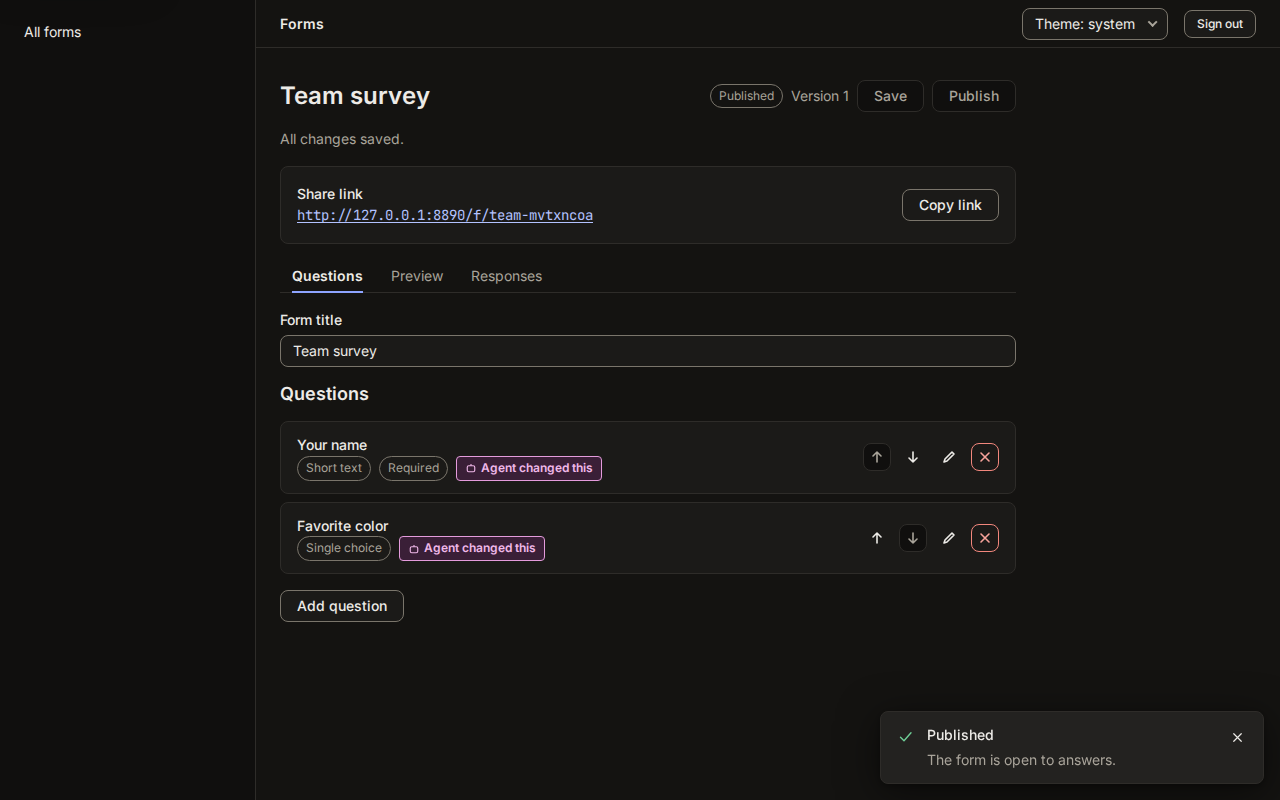
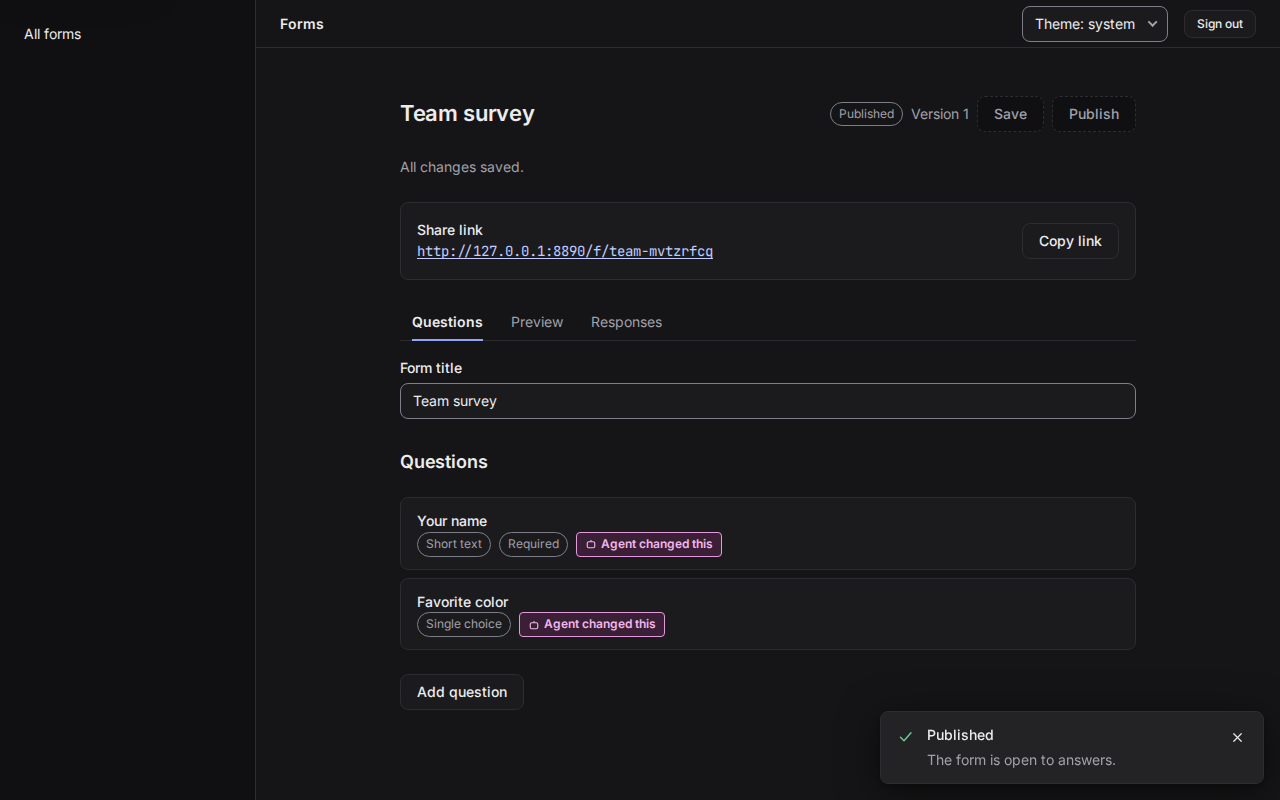
[FORMS-83] Calm look for the builder and form page
Move to agentic-design 0.5. Add a question types menu, inline
rename, hover and focus row tools, and a calmer public form page.
Keep the before screenshots in docs/screenshots/before. Release 0.9.0.

diff --git a/ui/Builder.tsx b/ui/Builder.tsx
@@ -1,13 +1,13 @@
 import { useEffect, useRef, useState } from "react";
-import { Button, IconButton, Input, Tabs, useToast } from "agentic-design/react";
+import { Button, IconButton, Input, Menu, Tabs, useToast } from "agentic-design/react";
 import type { Client } from "../src/client.js";
 import type { Form, Question, Section } from "../src/core/form.js";
 import { Preview } from "./Preview.js";
-import { QuestionDialog, typeLabel } from "./QuestionDialog.js";
+import { QuestionDialog, TYPES, typeLabel } from "./QuestionDialog.js";
 import { Responses } from "./Responses.js";
 import { AgentMark, ErrorBox, Gate, None, canon, isConflict, setUnsaved, useLoad } from "./lib.js";
 
-type Edit = { section: number; index: number | "new" };
+type Edit = { section: number; index: number | "new"; type?: Question["type"] };
 const icon = (d: string) => (
   <svg width="16" height="16" viewBox="0 0 16 16" fill="none" stroke="currentColor" strokeWidth="1.6" strokeLinecap="round" strokeLinejoin="round" aria-hidden="true">
     <path d={d} />
@@ -21,6 +21,7 @@ function Editor({ api, initial, reload, origin }: { api: Client; initial: Form; 
   const [sections, setSections] = useState<Section[]>(initial.sections);
   const [edit, setEdit] = useState<Edit | undefined>();
   const [opener, setOpener] = useState<HTMLElement | null>(null);
+  const [renaming, setRenaming] = useState<{ id: string; text: string } | undefined>();
   const [error, setError] = useState<unknown>();
   const [busy, setBusy] = useState<"save" | "publish" | undefined>();
   const toast = useToast();
@@ -35,6 +36,14 @@ function Editor({ api, initial, reload, origin }: { api: Client; initial: Form; 
       setUnsaved(false);
     };
   }, [dirty]);
+  const rename = (si: number, qi: number, text: string | undefined) => {
+    setRenaming(undefined);
+    const q = sections[si]!.questions[qi]!;
+    const label = text?.trim();
+    if (label && label !== q.label) patch(si, sections[si]!.questions.map((x, i) => (i === qi ? { ...x, label } : x)));
+    // The row stays, so focus goes back to the name that was edited.
+    requestAnimationFrame(() => root.current?.querySelector<HTMLButtonElement>(`button[data-rename="${CSS.escape(q.id)}"]`)?.focus());
+  };
   // A change moves or removes the control that had focus. This puts focus back on a control that is still there.
   const root = useRef<HTMLDivElement>(null);
   const [refocus, setRefocus] = useState<{ label: string } | undefined>();
@@ -106,20 +115,39 @@ function Editor({ api, initial, reload, origin }: { api: Client; initial: Form; 
 
   const builder = (
     <div className="af-stack">
-      <Input label="Form title" value={title} onChange={(e) => setTitle(e.target.value)} />
+      <div className="af-title-field"><Input label="Form title" value={title} onChange={(e) => setTitle(e.target.value)} /></div>
       {sections.map((s, si) => (
         <section key={s.id} className="af-stack" aria-labelledby={`sec-${si}`}>
-          <h2 id={`sec-${si}`} style={{ margin: 0, fontSize: "var(--agd-font-size-lg)" }}>
+          <h2 id={`sec-${si}`} className="af-section-title">
             {s.title}
           </h2>
           {s.questions.length === 0 ? (
-            <None title="No questions in this section" description="Add the first question." />
+            <div className="af-empty-hint">
+              <None title="No questions in this section" description="Pick a type below to add the first question." />
+            </div>
           ) : (
             <ol className="af-list" aria-label={`Questions in ${s.title}`}>
               {s.questions.map((q, qi) => (
                 <li className="af-item" key={q.id}>
                   <div className="af-item__main">
-                    <div className="af-item__label">{q.label}</div>
+                    {renaming?.id === q.id ? (
+                      <input
+                        className="agd-input"
+                        aria-label={`Question: ${q.label}`}
+                        autoFocus
+                        value={renaming.text}
+                        onChange={(e) => setRenaming({ id: q.id, text: e.target.value })}
+                        onBlur={() => rename(si, qi, renaming.text)}
+                        onKeyDown={(e) => {
+                          if (e.key === "Enter") rename(si, qi, renaming.text);
+                          if (e.key === "Escape") rename(si, qi, undefined);
+                        }}
+                      />
+                    ) : (
+                      <button type="button" className="af-rename af-item__label" data-rename={q.id} aria-label={`Rename: ${q.label}`} title="Click to rename" onClick={() => setRenaming({ id: q.id, text: q.label })}>
+                        {q.label}
+                      </button>
+                    )}
                     <div className="af-row">
                       <span className="af-tag">{typeLabel(q.type)}</span>
                       {q.required && <span className="af-tag">Required</span>}
@@ -127,7 +155,7 @@ function Editor({ api, initial, reload, origin }: { api: Client; initial: Form; 
                       {q.madeBy === "agent" && <AgentMark what="changed this" />}
                     </div>
                   </div>
-                  <div className="af-row">
+                  <div className="af-row af-item__tools">
                     <IconButton label={`Move up: ${q.label}`} icon={ICONS.up} size="sm" disabled={qi === 0} onClick={() => move(si, qi, -1)} />
                     <IconButton label={`Move down: ${q.label}`} icon={ICONS.down} size="sm" disabled={qi === s.questions.length - 1} onClick={() => move(si, qi, 1)} />
                     <IconButton label={`Edit: ${q.label}`} icon={ICONS.edit} size="sm" onClick={(e) => (setOpener(e.currentTarget), setEdit({ section: si, index: qi }))} />
@@ -137,8 +165,17 @@ function Editor({ api, initial, reload, origin }: { api: Client; initial: Form; 
               ))}
             </ol>
           )}
-          <div>
-            <Button data-add="" onClick={(e) => (setOpener(e.currentTarget), setEdit({ section: si, index: "new" }))}>Add question{sections.length > 1 ? ` to ${s.title}` : ""}</Button>
+          <div className="af-add">
+            <Menu
+              trigger={<Button data-add="" data-section={si}>Add question{sections.length > 1 ? ` to ${s.title}` : ""}</Button>}
+              items={TYPES.map((t) => ({
+                label: t.label,
+                onSelect: () => {
+                  setOpener(root.current?.querySelector<HTMLElement>(`button[data-add][data-section="${si}"]`) ?? null);
+                  setEdit({ section: si, index: "new", type: t.value });
+                },
+              }))}
+            />
           </div>
         </section>
       ))}
@@ -194,6 +231,7 @@ function Editor({ api, initial, reload, origin }: { api: Client; initial: Form; 
           key={`${edit.section}-${edit.index}`}
           open
           question={editing}
+          initialType={edit.type}
           earlier={earlier}
           taken={flat.map((q) => q.id)}
           onOpenChange={(open) => !open && closeDialog(opener)}

diff --git a/e2e-ui/ui.spec.ts b/e2e-ui/ui.spec.ts
@@ -28,8 +28,12 @@ const cspErrors = (page: Page) => {
   return seen;
 };
 
+const TYPE_LABELS: Record<string, string> = { short_text: "Short text", single_choice: "Single choice", number: "Number", rating: "Rating" };
 const addQuestion = async (page: Page, label: string, type: string, extra?: (dialog: ReturnType<Page["getByRole"]>) => Promise<void>) => {
+  // The types menu picks the type the dialog starts with.
   await page.getByRole("button", { name: /^Add question/ }).click();
+  await page.getByRole("menuitem", { name: TYPE_LABELS[type]! }).click();
+  await expect(page.getByRole("dialog", { name: "Add question" }).getByLabel("Type")).toHaveValue(type);
   const dialog = page.getByRole("dialog", { name: "Add question" });
   await dialog.getByLabel("Question", { exact: true }).fill(label);
   await dialog.getByLabel("Type").selectOption(type);
@@ -76,6 +80,8 @@ test("sign in, build a form, publish, fill it by link, read the response, reload
     await d.getByLabel("Required").check();
   });
   await page.getByRole("button", { name: /^Add question/ }).click();
+  await audit(page, "04-question-menu");
+  await page.getByRole("menuitem", { name: "Short text" }).click();
   await audit(page, "04-question-dialog");
   await page.keyboard.press("Escape");
   await addQuestion(page, "Favorite color", "single_choice", async (d) => {
@@ -88,6 +94,19 @@ test("sign in, build a form, publish, fill it by link, read the response, reload
   await page.getByRole("button", { name: "Edit: Throwaway" }).click();
   await page.getByRole("dialog", { name: "Edit question" }).getByLabel("Question", { exact: true }).fill("Team size");
   await page.getByRole("button", { name: "Save question" }).click();
+  // Click a name to rename it in place: Escape keeps the old name, Enter keeps the new one.
+  await page.getByRole("button", { name: "Rename: Your name" }).click();
+  await page.getByLabel("Question: Your name").fill("Ignored");
+  await page.keyboard.press("Escape");
+  await expectQuestions(page, ["Your name", "Favorite color", "Team size"]);
+  await expect(page.getByRole("button", { name: "Rename: Your name" })).toBeFocused();
+  await page.getByRole("button", { name: "Rename: Your name" }).click();
+  await page.getByLabel("Question: Your name").fill("Full name");
+  await page.keyboard.press("Enter");
+  await expectQuestions(page, ["Full name", "Favorite color", "Team size"]);
+  await page.getByRole("button", { name: "Rename: Full name" }).click();
+  await page.getByLabel("Question: Full name").fill("Your name");
+  await page.keyboard.press("Enter");
   await page.getByRole("button", { name: "Move up: Team size" }).click();
   await expectQuestions(page, ["Your name", "Team size", "Favorite color"]);
   await page.getByRole("button", { name: "Remove: Team size" }).click();
@@ -281,4 +300,21 @@ test("the built ./ui export mounts in a host page, lists forms, and unmounts", a
   await page.evaluate(() => (window as never as { handle: { unmount(): void } }).handle.unmount());
   await expect(page.locator("#forms")).toBeEmpty();
   expect(errors).toEqual([]);
+});
+
+test("the builder stays inside a 390px screen and the row tools stay reachable by keyboard", async ({ page, request }) => {
+  await signIn(page);
+  const id = `small-${Date.now().toString(36)}`;
+  const long = "A long question that has to wrap on a small screen without cutting any word";
+  await request.post("/api/v1/forms", { headers: { authorization: `Bearer ${TOKEN}` }, data: { id, title: "Small", sections: [{ id: "main", title: "Questions", questions: [{ id: "a", type: "short_text", label: long }] }] } });
+  await page.setViewportSize({ width: 390, height: 800 });
+  await page.goto(`/ui/#/forms/${id}`);
+  await expect(page.getByRole("button", { name: `Rename: ${long}` })).toBeVisible();
+  // Nothing is wider than the screen.
+  expect(await page.evaluate(() => document.documentElement.scrollWidth <= innerWidth)).toBe(true);
+  // The hover-only tools show when focus is inside the row.
+  await page.getByRole("button", { name: `Rename: ${long}` }).focus();
+  await expect(page.getByRole("button", { name: `Edit: ${long}` })).toBeVisible();
+  await expect.poll(() => page.getByRole("button", { name: `Edit: ${long}` }).evaluate((el) => getComputedStyle(el.parentElement!).opacity)).toBe("1");
+  await page.screenshot({ path: `${SHOTS}/12-builder-narrow.png` });
 });

diff --git a/src/page.ts b/src/page.ts
@@ -7,18 +7,20 @@ const ESCAPES: Record<string, string> = { "&": "&amp;", "<": "&lt;", ">": "&gt;"
 const esc = (text: string): string => text.replace(/[&<>"']/g, (c) => ESCAPES[c]);
 
 const STYLE = `
-body{margin:0;font:var(--agd-font-size-lg,1.125rem)/1.6 var(--agd-font-family-sans,system-ui,sans-serif);color:var(--agd-color-text,#1a1a1a);background:var(--agd-color-bg,#fff)}
-main{max-width:40rem;margin:0 auto;padding:1.5rem 1rem 4rem}
-fieldset{border:1px solid var(--agd-color-border-strong,#595959);border-radius:var(--agd-radius-md,4px);padding:1rem;margin:0 0 1.5rem}
-legend{font-weight:600;padding:0 .25rem}
-label{display:block;font-weight:600;margin:.75rem 0 .25rem}
-.opt{display:flex;gap:.5rem;align-items:center;min-height:44px}
+body{margin:0;font:var(--agd-font-size-md,1rem)/1.6 var(--agd-font-family-sans,system-ui,sans-serif);color:var(--agd-color-text,#1a1a1a);background:var(--agd-color-bg,#fff)}
+main{max-width:36rem;margin:0 auto;padding:3rem 1.25rem 5rem}
+h1{font-size:var(--agd-font-size-xl,1.5rem);line-height:1.25;margin:0 0 2rem;font-weight:600;letter-spacing:-.01em}
+fieldset{border:1px solid var(--agd-color-border,#d4d4d8);border-radius:var(--agd-radius-md,8px);padding:1rem 1.25rem;margin:0 0 1.5rem;background:var(--agd-color-surface,#fff)}
+legend{font-weight:500;padding:0 .25rem}
+label{display:block;font-weight:500;margin:1.25rem 0 .375rem}
+.opt{display:flex;gap:.625rem;align-items:center;min-height:2.5rem}
 .opt label{margin:0;font-weight:400}
-input[type=checkbox],input[type=radio]{width:1.5rem;height:1.5rem;flex:none;accent-color:var(--agd-color-accent,#0b57d0)}
-input:not([type=checkbox]):not([type=radio]),textarea,select{width:100%;box-sizing:border-box;min-height:44px;padding:.5rem;font:inherit;color:inherit;background:var(--agd-color-surface,#fff);border:2px solid var(--agd-color-border-strong,#595959);border-radius:var(--agd-radius-sm,4px)}
-:focus-visible{outline:3px solid var(--agd-color-focus,#0b57d0);outline-offset:2px}
-button{min-height:44px;padding:.5rem 1.5rem;font:inherit;font-weight:600;color:var(--agd-color-text-on-accent,#fff);background:var(--agd-color-accent,#0b57d0);border:2px solid var(--agd-color-accent,#0b57d0);border-radius:var(--agd-radius-sm,4px);cursor:pointer}
-#errors{border:3px solid var(--agd-color-danger,#b3261e);padding:1rem;margin:0 0 1.5rem}
+input[type=checkbox],input[type=radio]{width:1.25rem;height:1.25rem;flex:none;accent-color:var(--agd-color-accent,#0b57d0)}
+input:not([type=checkbox]):not([type=radio]),textarea,select{width:100%;box-sizing:border-box;min-height:2.5rem;padding:.5rem .75rem;font:inherit;color:inherit;background:var(--agd-color-surface,#fff);border:1px solid var(--agd-color-border-strong,#595959);border-radius:var(--agd-radius-md,8px)}
+:focus-visible{outline:2px solid var(--agd-color-focus,#0b57d0);outline-offset:2px}
+button{min-height:2.5rem;padding:.5rem 1.5rem;font:inherit;font-weight:500;color:var(--agd-color-text-on-accent,#fff);background:var(--agd-color-accent,#0b57d0);border:1px solid var(--agd-color-accent,#0b57d0);border-radius:var(--agd-radius-md,8px);cursor:pointer}
+#errors{border:1px solid var(--agd-color-danger,#b3261e);border-radius:var(--agd-radius-md,8px);background:var(--agd-color-danger-subtle,#fff);padding:1rem;margin:0 0 1.5rem}
+#done{padding:1.5rem;border:1px solid var(--agd-color-border,#d4d4d8);border-radius:var(--agd-radius-md,8px)}
 .req{font-weight:400}
 .notice{white-space:pre-line}
 [hidden]{display:none!important}`;

diff --git a/ui/app.css b/ui/app.css
@@ -1,12 +1,13 @@
-.af-stack { display: grid; gap: var(--agd-space-4); }
+.af-stack { display: grid; gap: var(--agd-space-6); }
 .af-row { display: flex; flex-wrap: wrap; align-items: center; gap: var(--agd-space-2); }
 .af-row--between { justify-content: space-between; }
-.af-page { max-width: var(--agd-size-content); }
+.af-page { max-width: var(--agd-size-content); margin-inline: auto; padding-block: var(--agd-space-4); }
 .af-title { margin: 0; font-size: var(--agd-font-size-xl); line-height: var(--agd-line-height-tight); }
 .af-muted { color: var(--agd-color-text-muted); }
 .af-card { padding: var(--agd-space-4); border: 1px solid var(--agd-color-border); border-radius: var(--agd-radius-md); background: var(--agd-color-surface); }
 .af-list { display: grid; gap: var(--agd-space-2); margin: 0; padding: 0; list-style: none; }
-.af-item { display: flex; flex-wrap: wrap; align-items: center; gap: var(--agd-space-3); padding: var(--agd-space-3) var(--agd-space-4); border: 1px solid var(--agd-color-border); border-radius: var(--agd-radius-md); background: var(--agd-color-surface); }
+.af-item { position: relative; display: flex; flex-wrap: wrap; align-items: center; gap: var(--agd-space-3); padding: var(--agd-space-3) var(--agd-space-4); border: 1px solid var(--agd-color-border); border-radius: var(--agd-radius-md); background: var(--agd-color-surface); transition: border-color 120ms; }
+.af-item:hover, .af-item:focus-within { border-color: var(--agd-color-border-strong); }
 .af-item__main { flex: 1 1 12rem; min-width: 0; }
 .af-item__label { font-weight: var(--agd-font-weight-medium); overflow-wrap: anywhere; }
 .af-link { color: var(--agd-color-accent-text); text-underline-offset: 0.15em; }
@@ -27,3 +28,17 @@
 .af-code { font-family: var(--agd-font-family-mono); font-size: var(--agd-font-size-sm); overflow-wrap: anywhere; }
 .af-loading { display: flex; align-items: center; gap: var(--agd-space-2); color: var(--agd-color-text-muted); }
 .af-signin { max-width: 26rem; margin: var(--agd-space-24) auto; }
+
+.af-section-title { margin: 0; font-size: var(--agd-font-size-lg); font-weight: var(--agd-font-weight-semibold); }
+.af-item__tools { opacity: 0; transition: opacity 120ms; }
+.af-item:hover .af-item__tools, .af-item:focus-within .af-item__tools { opacity: 1; }
+@media (hover: none) { .af-item__tools { opacity: 1; } }
+@media (prefers-reduced-motion: reduce) { .af-item, .af-item__tools { transition: none; } }
+.af-rename { all: unset; box-sizing: border-box; display: block; max-width: 100%; padding: 0 var(--agd-space-1); margin-inline: calc(var(--agd-space-1) * -1); border-radius: var(--agd-radius-sm); font-weight: var(--agd-font-weight-medium); overflow-wrap: anywhere; cursor: text; }
+.af-rename:hover { background: var(--agd-color-surface-sunken); }
+.af-rename:focus-visible { outline: 2px solid var(--agd-color-focus); outline-offset: 2px; }
+.af-title-field { margin-bottom: var(--agd-space-2); }
+.af-add { display: flex; }
+.af-empty-hint { padding: var(--agd-space-6) var(--agd-space-4); border: 1px dashed var(--agd-color-border-strong); border-radius: var(--agd-radius-md); text-align: center; }
+.af-table tbody tr:hover td { background: var(--agd-color-surface-sunken); }
+.af-table-wrap:focus-visible { outline: 2px solid var(--agd-color-focus); outline-offset: 2px; }

diff --git a/ui/QuestionDialog.tsx b/ui/QuestionDialog.tsx
@@ -27,6 +27,8 @@ const num = (text: string) => (text.trim() === "" || !Number.isFinite(Number(tex
 interface Props {
   /** The question to edit, or undefined for a new one. */
   question?: Question;
+  /** The type a new question starts with. */
+  initialType?: QuestionType;
   /** Questions that come earlier in the form. A condition may read only these. */
   earlier: Question[];
   taken: string[];
@@ -35,12 +37,12 @@ interface Props {
   onSave: (question: Question) => void;
 }
 
-export function QuestionDialog({ question, earlier, taken, open, onOpenChange, onSave }: Props) {
+export function QuestionDialog({ question, initialType, earlier, taken, open, onOpenChange, onSave }: Props) {
   const r = question?.rules ?? {};
   const [label, setLabel] = useState(question?.label ?? "");
   const [id, setId] = useState(question?.id ?? "");
   const [idTouched, setIdTouched] = useState(false);
-  const [type, setType] = useState<QuestionType>(question?.type ?? "short_text");
+  const [type, setType] = useState<QuestionType>(question?.type ?? initialType ?? "short_text");
   const [required, setRequired] = useState(question?.required ?? false);
   const [choices, setChoices] = useState((question?.choices ?? []).join("\n"));
   const [min, setMin] = useState(String(r.min ?? ""));

diff --git a/CHANGELOG.md b/CHANGELOG.md
@@ -2,6 +2,17 @@
 
 This file lists what changed in each release. The versions follow semver. The API can still change before 1.0.
 
+## 0.9.0 - 2026-10-29
+
+### Changed
+
+- A calmer look in the `/ui` app and on the public form page at `/f/<id>`. Spacing is wider, borders are one pixel, and the form page uses a smaller type scale. The look follows Tiny Little Office (https://tinylittleoffice.com, MIT): quiet neutrals and soft borders. No code is copied.
+- The builder has an "Add question" menu. Pick a type from the menu, and the dialog opens with that type chosen. The Type field stays in the dialog.
+- Click a question name in the builder to rename it in place. Enter keeps the new name, and Escape keeps the old one.
+- The reorder, edit, and remove buttons of a row show when the row has the pointer or the keyboard focus. On a touch screen they always show.
+- The empty section and the responses table use the quieter look, with a row highlight in the table.
+- Move to `agentic-design` 0.5.x. Only token values changed, so no code that reads the semantic tokens needs an edit.
+
 ## 0.8.0 - 2026-10-29
 
 Breaking changes. Read these before you upgrade from 0.7.0:

diff --git a/README.md b/README.md
@@ -15,7 +15,7 @@ Build forms and collect answers into tables.
 npm install agentic-forms
 ```
 
-It needs Node 22 or newer. It depends on `agentic-identity` 0.7.x and `agentic-design` 0.4.x.
+It needs Node 22 or newer. It depends on `agentic-identity` 0.7.x and `agentic-design` 0.5.x.
 
 ## Quick start
 
